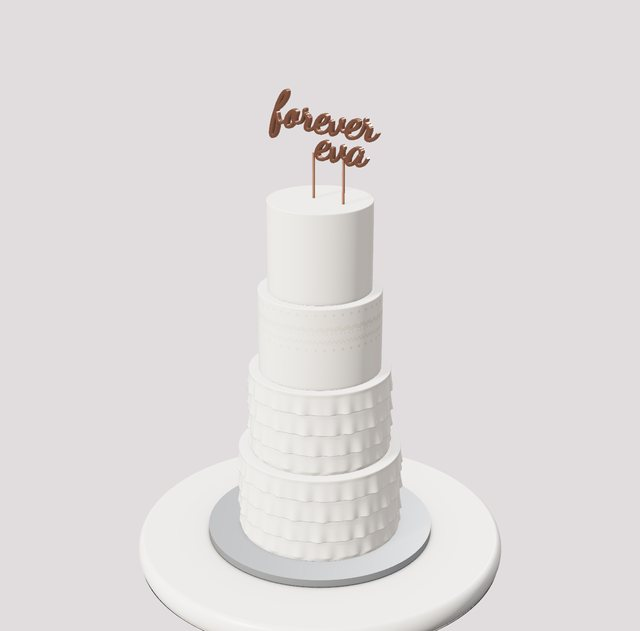
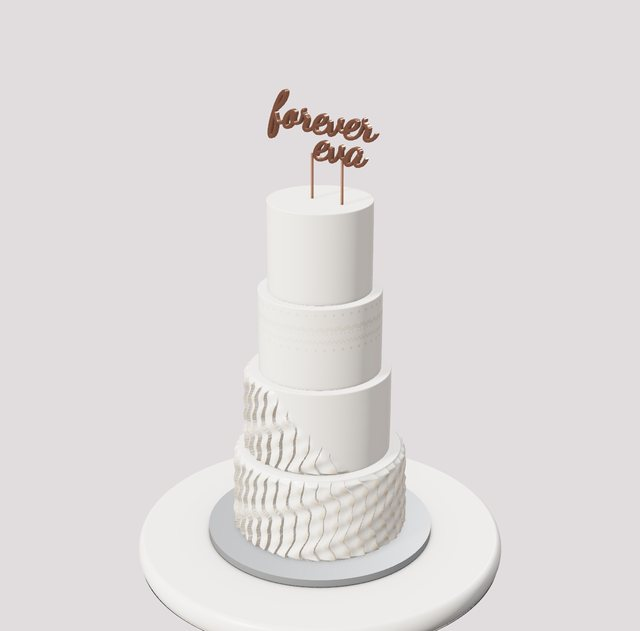
Forever Ruffles: vertical fondant ruffles in a diagonal sweep with luster edges (new Vertical Fondant Ruffles texture)
Claude-Session: https://claude.ai/code/session_016sN14hzH19WJ5zrp8o2QGp

Changed region(s): [[0.3438, 0.6022, 0.6562, 0.9033], [0.4062, 0.1506, 0.5938, 0.3312]]

diff --git a/studio.html b/studio.html
@@ -439,7 +439,7 @@ const ti=b=>'<svg viewBox="0 0 48 24" fill="none" stroke="currentColor" stroke-w
 const TEX_ICONS={rosettes:ti('<circle cx="14" cy="8" r="4"/><circle cx="24" cy="8" r="4"/><circle cx="34" cy="8" r="4"/><circle cx="19" cy="16" r="4"/><circle cx="29" cy="16" r="4"/><path d="M14 8m-1.5 0a1.5 1.5 0 1 0 1.5-1.5M24 8m-1.5 0a1.5 1.5 0 1 0 1.5-1.5M34 8m-1.5 0a1.5 1.5 0 1 0 1.5-1.5" stroke-width="1"/>'),smooth:ti('<rect x="8" y="4" width="32" height="16" rx="2"/>'),seminaked:ti('<rect x="8" y="4" width="32" height="16" rx="2"/><path d="M10 10h8M22 10h6M32 10h6M12 15h10M26 15h10" stroke-dasharray="2 2"/>'),lines:ti('<path d="M8 6h32M8 10h32M8 14h32M8 18h32"/>'),ribbed:ti('<path d="M12 4v16M17 4v16M22 4v16M27 4v16M32 4v16M37 4v16"/>'),scallop:ti('<path d="M8 8c2-3 4-3 6 0s4 3 6 0 4-3 6 0 4 3 6 0 4-3 6 0M8 15c2-3 4-3 6 0s4 3 6 0 4-3 6 0 4 3 6 0 4-3 6 0"/>'),stripes:ti('<path d="M8 6h32M8 14h32" stroke-width="3"/><path d="M8 10h32M8 18h32" stroke-width="3" opacity=".4"/>'),combed:ti('<path d="M8 7h32M8 9.5h32M8 12h32M8 14.5h32M8 17h32" stroke-width="1"/>'),knife:ti('<path d="M8 16l8-8 6 5 7-7 5 4 6-4M10 20l9-5 7 3 9-6"/>'),stucco:ti('<path d="M10 16l2-5 2 5M18 12l2-5 2 5M26 16l2-5 2 5M34 12l2-5 2 5M14 20l2-4 2 4M30 20l2-4 2 4"/>'),swirl:ti('<path d="M10 14c0-6 10-6 10 0s-6 5-6 1M26 12c0-6 10-6 10 0s-6 5-6 1"/>'),wave:ti('<path d="M3 8c4-5 7 5 11 0s7 5 11 0 7 5 11 0 7 5 9 0M3 17c4-5 7 5 11 0s7 5 11 0 7 5 11 0 7 5 9 0"/>'),zigzag:ti('<path d="M3 9l5-5 5 5 5-5 5 5 5-5 5 5 5-5 5 5M3 19l5-5 5 5 5-5 5 5 5-5 5 5 5-5 5 5"/>'),basket:ti('<path d="M4 4h14v7H4zM20 4h14v7H20zM4 13h14v7H4zM20 13h14v7H20zM36 4h8v7h-8zM36 13h8v7h-8z"/>'),diamond:ti('<path d="M12 2l10 10-10 10L2 12zM32 2l10 10-10 10-10-10z"/>'),golf:ti('<circle cx="8" cy="7" r="2"/><circle cx="18" cy="7" r="2"/><circle cx="28" cy="7" r="2"/><circle cx="38" cy="7" r="2"/><circle cx="13" cy="15" r="2"/><circle cx="23" cy="15" r="2"/><circle cx="33" cy="15" r="2"/>'),dimple:ti('<circle cx="10" cy="7" r="3"/><circle cx="24" cy="7" r="3"/><circle cx="38" cy="7" r="3"/><circle cx="17" cy="17" r="3"/><circle cx="31" cy="17" r="3"/>'),ruffle:ti('<path d="M6 2c-4 6 4 14 0 20M16 2c-4 6 4 14 0 20M26 2c-4 6 4 14 0 20M36 2c-4 6 4 14 0 20"/>'),brushed:ti('<path d="M8 2v20M15 4v18M22 2v19M29 5v17M36 2v20"/>'),swipes:ti('<path d="M8 20l4-18M17 22l4-18M26 20l4-18M35 22l4-18"/>')};TEX_ICONS.grass=ti('<path d="M6 20l1-12M10 20l-1-10M14 20l2-12M18 20l-1-9M22 20l2-12M26 20l-1-10M30 20l2-12M34 20l-1-9M38 20l2-11M42 20l-1-10"/>');TEX_ICONS.fur=ti('<path d="M5 8c1 4 3 6 4 10M11 8c1 4 3 6 4 10M17 8c1 4 3 6 4 10M23 8c1 4 3 6 4 10M29 8c1 4 3 6 4 10M35 8c1 4 3 6 4 10M41 8c1 4 2 6 3 10"/>');
 const DRIPS=['#3b2216','#6b3f24','#f4ecdf','#b8742e','#d4ae5a','#c9ccd2','#e9a6ba','#9fc0d6'];
 const PALETTES=[{name:'Blush And Ivory',frost:['#fbf7f1','#f3d6dc','#fbf7f1'],pipe:'#fbf7f1',bow:'#f29bb4'},{name:'Sage Garden',frost:['#c9d8c5','#fbf7f1','#c9d8c5'],pipe:'#fbf7f1',bow:'#9db59a'},{name:'Dusty Blue',frost:['#d9e6ee','#fbf7f1','#d9e6ee'],pipe:'#fbf7f1',bow:'#9fc0d6'},{name:'Lavender',frost:['#cbbfe0','#fbf7f1','#cbbfe0'],pipe:'#fbf7f1',bow:'#cbbfe0'},{name:'Peach',frost:['#f6dcc8','#fbf7f1','#f6dcc8'],pipe:'#fbf7f1',bow:'#e9a6ba'},{name:'Black And Gold',frost:['#2f2a2c','#fbf7f1','#2f2a2c'],pipe:'#c9a24e',bow:'#c9a24e'},{name:'Chocolate Caramel',frost:['#7a4a32','#e7c08f','#7a4a32'],pipe:'#e7c08f',bow:'#6b4a3a'},{name:'All White',frost:['#fbf7f1','#fbf7f1','#fbf7f1'],pipe:'#fbf7f1',bow:'#fbf7f1'}];
-const TEXTURES={rosettes:'Rosette Cake',smooth:'Smooth',knife:'Palette Knife',lines:'Comb Lines',ribbed:'Ribbed Comb',scallop:'Scalloped',stripes:'Two-Tone Stripes',swirl:'Rustic Swirl',stucco:'Stucco Peaks',combed:'Fine Combed',seminaked:'Semi-Naked',wave:'Wavy Comb',zigzag:'Chevron Comb',basket:'Basket Weave',diamond:'Diamond Quilt',dimple:'Pillow Dimples',golf:'Golf Ball Dimples',ruffle:'Buttercream Ruffles',frills:'Fondant Frills',brushed:'Brushed Streaks',swipes:'Spatula Swipes',grass:'Piped Grass (All Over)',fur:'Piped Fur (All Over)'};
+const TEXTURES={rosettes:'Rosette Cake',smooth:'Smooth',knife:'Palette Knife',lines:'Comb Lines',ribbed:'Ribbed Comb',scallop:'Scalloped',stripes:'Two-Tone Stripes',swirl:'Rustic Swirl',stucco:'Stucco Peaks',combed:'Fine Combed',seminaked:'Semi-Naked',wave:'Wavy Comb',zigzag:'Chevron Comb',basket:'Basket Weave',diamond:'Diamond Quilt',dimple:'Pillow Dimples',golf:'Golf Ball Dimples',ruffle:'Buttercream Ruffles',frills:'Fondant Frills',vruffles:'Vertical Fondant Ruffles',brushed:'Brushed Streaks',swipes:'Spatula Swipes',grass:'Piped Grass (All Over)',fur:'Piped Fur (All Over)'};
 const BORDERS={none:'None',shells:'Shells',rshells:'Reverse Shells',pearls:'Pearls',dpearls:'Double Pearls',kisses:'Kisses',stars:'Star Drops',dflowers:'Drop Flowers',rosettes:'Rosettes',rope:'Rope',scrolls:'C-Scrolls',zigzag:'Zigzag',ruffle:'Ruffle',leaves:'Leaves',grass:'Piped Grass'};
 const SIDES={none:'None',drapes:'Fondant Drapes',swags:'Swags',double:'Double Swags',lambeth:'Lambeth',strings:'Drop Strings',quilted:'Quilted Pearls',deco:'Art Deco Fans'};
 const TOPS={none:'None',roses:'Sugar Roses',berries:'Fresh Berries',rosettes:'Rosette Crown',horn:'Unicorn Horn'};
@@ -1124,7 +1124,7 @@ const TEX3D={
  diamond:{rows:150,segs:400,make:(r,h,q)=>{const Nd=Math.max(8,Math.round(2*PI*r/.75));return(a,yy)=>{const ui=a/(2*PI)*Nd,vi=yy/.75;return .06*(Math.abs(Math.sin(PI*(ui+vi)))*Math.abs(Math.sin(PI*(ui-vi)))-.3)}}},
  dimple:{rows:150,segs:400,make:(r,h,q)=>{const N=Math.max(8,Math.round(2*PI*r/.6));return(a,yy)=>.05*Math.cos(N*a)*Math.cos(2*PI*yy/.6)}},
  golf:{rows:190,segs:640,make:(r,h,q)=>{const sp=.42,N=Math.max(10,Math.round(2*PI*r/sp)),cu=2*PI*r/N,vh=sp*.866,fr=x=>x-Math.floor(x);return(a,yy)=>{const v=yy/vh,row=Math.floor(v),u=fr(a/(2*PI))*N+(row%2?.5:0),du=(fr(u)-.5)*cu,dv=(fr(v)-.5)*vh,d=Math.hypot(du,dv),k=Math.max(0,1-d/.16);return -.045*k*k*(3-2*k)}}},
- frills:{rows:140,segs:720,make:(r,h,q)=>{const N=Math.max(12,Math.round(r*4.2)),RH=Math.max(1,h/Math.max(2,Math.round(h/1.35))),ph=[...Array(12)].map(()=>q()*6.28);return(a,yy)=>{const k=Math.floor(yy/RH),u=yy/RH-k,p=ph[k%12],w=Math.sin(N*a+p+.6*Math.sin(3*a+p))*.6+Math.sin(N*1.7*a+p*2)*.4;return(.03+.2*Math.pow(1-u,1.6))*(.55+.45*w)-.05}}},ruffle:{rows:50,segs:480,make:(r,h,q)=>{const N=Math.max(10,Math.round(r*3.4));return(a,yy)=>.1*Math.sin(N*a+.35*Math.sin(yy*.9))}},
+ vruffles:{rows:130,segs:1100,make:(r,h,q,t)=>{const V=(t&&t.vr)||{},N=Math.max(20,Math.round(r*7.5)),c=(V.c??180)*PI/180,w0=(V.w0??180)*PI/180,w1=(V.w1??180)*PI/180,A=V.depth??.34,ph=q()*6.28;return(a,yy)=>{const u=Math.min(1,Math.max(0,yy/h)),w=w0+(w1-w0)*u,d=Math.abs(Math.atan2(Math.sin(a-c),Math.cos(a-c))),m=w>=PI?1:smooth(w,w-.2,d);if(m<=0)return 0;const s=N*a/(2*PI)+.32*Math.sin(yy*1.5+ph+a*3)+.12*Math.sin(yy*3.7+a*7),f=s-Math.floor(s),pr=Math.pow(1-f,.55);return m*(A*(1.25-.45*u)*(.15+.85*pr)+.04*Math.sin(yy*6+a*13+ph))}}},frills:{rows:140,segs:720,make:(r,h,q)=>{const N=Math.max(12,Math.round(r*4.2)),RH=Math.max(1,h/Math.max(2,Math.round(h/1.35))),ph=[...Array(12)].map(()=>q()*6.28);return(a,yy)=>{const k=Math.floor(yy/RH),u=yy/RH-k,p=ph[k%12],w=Math.sin(N*a+p+.6*Math.sin(3*a+p))*.6+Math.sin(N*1.7*a+p*2)*.4;return(.03+.2*Math.pow(1-u,1.6))*(.55+.45*w)-.05}}},ruffle:{rows:50,segs:480,make:(r,h,q)=>{const N=Math.max(10,Math.round(r*3.4));return(a,yy)=>.1*Math.sin(N*a+.35*Math.sin(yy*.9))}},
  brushed:{rows:110,segs:420,make:(r,h,q)=>{const f=fbm(36,2,1100+Math.floor(q()*500));return(a,yy)=>{const u=((a/(2*PI))%1+1)%1;return .07*(f(u,(yy/h)*.12)-.5)}}},
  swipes:{rows:110,segs:420,make:(r,h,q)=>{const N=Math.max(8,Math.round(2*PI*r/.8)),f=fbm(N,2,1300+Math.floor(q()*500));return(a,yy)=>{const ui=a/(2*PI)*N,fr=((ui%1)+1)%1,u=((a/(2*PI))%1+1)%1;return .06*(fr-.5)+.03*(f(u,(yy/h)*.3)-.5)}}}};
 const texFade=(yy,h)=>smooth(.03,.3,yy)*smooth(h-.02,h-.32,yy);
@@ -1642,9 +1642,9 @@ THEMES.unshift(
   newTier(10,3.6,{shape:'square',color:'#fbf7f1',finish:'fondant',texture:'dimple',prof:'pillow',top:'rope',pipe:'#d4ae5a',bottom:'rope',bottomColor:'#d4ae5a',stencil:{pattern:'damask',color:'#d4ae5a',size:1.8,height:1.8,y:-.8},decor:[DC('roses','band',16,{color:'#fbf7f1',size:130,y:-1.4})]}),
   newTier(7.5,3.2,{shape:'square',color:'#fbf7f1',finish:'fondant',texture:'ruffle',prof:'pillow',top:'rope',pipe:'#fbf7f1',bottom:'scrolls',bottomColor:'#d4ae5a',decor:[DC('tassel','band',4,{color:'#d4ae5a',size:180,rot:45,y:.9})]}),
   newTier(5.5,3.4,{color:'#c9ccd2',texture:'rosettes',prof:'dome',top:'none',bottom:'none',decor:[DC('roses','cluster',10,{color:'#fbf7f1',size:130})]})]}},
- {key:'sig_ruffles',name:'Forever Ruffles',tag:SIG,blurb:'Four ivory fondant tiers: two bottom tiers swept in soft ruffles, a lace band, a clean top tier and a rose gold "forever" script topper.',d:{board:'silver',topper:'none',tiers:[
-  newTier(10,5.4,{color:'#fbf8f2',finish:'fondant',texture:'frills',top:'none',bottom:'none'}),
-  newTier(8.6,5.2,{color:'#fbf8f2',finish:'fondant',texture:'frills',top:'none',bottom:'none'}),
+ {key:'sig_ruffles',name:'Forever Ruffles',tag:SIG,blurb:'Four ivory fondant tiers with a diagonal sweep of vertical fondant ruffles edged in gold luster, a lace band, a clean top tier and a rose gold "forever" script topper.',d:{board:'silver',topper:'none',tiers:[
+  newTier(10,5.4,{color:'#fbf8f2',finish:'fondant',texture:'vruffles',edgeColor:'#c8a46a',vr:{c:110,w0:180,w1:180},top:'none',bottom:'none'}),
+  newTier(8.6,5.2,{color:'#fbf8f2',finish:'fondant',texture:'vruffles',edgeColor:'#c8a46a',vr:{c:135,w0:105,w1:40},top:'none',bottom:'none'}),
   newTier(7.4,5,{color:'#fbf8f2',finish:'fondant',top:'none',bottom:'none',stencil:{pattern:'lace',color:'#e6dccd',size:2.2,height:2.6,y:1.1}}),
   newTier(6.2,5.4,{color:'#fbf8f2',finish:'fondant',top:'none',bottom:'none',decor:[DC('scripttop','cluster',1,{color:'#e2ae96',size:380,center:true,face:95,text:'forever|eva'})]})]}},
  {key:'sig_rosegold',name:'Rose Gold Jewels',tag:SIG,blurb:'Six tiers of quilted ivory, jeweled chain swags, a rose gold glitter tier and rhinestone brooch bursts with rose gold roses.',d:{board:'rosegold',topper:'none',tiers:[
@@ -1901,7 +1901,7 @@ function buildStencil(t,ctx){const ST=t.stencil;if(!ST||!ST.pattern)return;const
 const matCache=new Map();
 function mkMat(key,make){if(!matCache.has(key))matCache.set(key,make());return matCache.get(key)}
 function shineK(){return 1.6-design.scene.shine/100*1.2}
-function surfaceMat(t){const nk=t.texture==='seminaked',om=!nk&&(t.ombre||t.texture==='stripes'||(t.print&&t.print!=='none'));return mkMat('surf|'+t.color+'|'+t.finish+'|'+t.texture+(nk?'|'+Math.round(t.h*4):'')+(om?'|om':'')+(TEX3D[t.texture]?'|3d':''),()=>{const f=FINISHES[t.finish]||FINISHES.buttercream,nm=(TEX[t.texture]||TEX.smooth).clone(),rm=TEX.rough.clone();nm.repeat.set(3,1);rm.repeat.set(3,1);nm.needsUpdate=rm.needsUpdate=true;const m=new T.MeshPhysicalMaterial({color:t.color,roughnessMap:rm,normalMap:nm,normalScale:new V2(.3*f.tex*(t.texture==='smooth'?1:1.3),.3*f.tex*(t.texture==='smooth'?1:1.3)),sheen:f.sheen,sheenRoughness:.5,sheenColor:new T.Color(1,.965,.925)});if(nk){m.color.set('#ffffff');m.map=nakedTex(t.color,t.h);m.normalScale.set(.18,.18)}if(om){m.color.set('#ffffff');m.vertexColors=true}m.userData.finish=f;return warm(m,1.15)})}
+function surfaceMat(t){const nk=t.texture==='seminaked',om=!nk&&(t.ombre||t.texture==='stripes'||(t.print&&t.print!=='none')||(t.texture==='vruffles'&&t.edgeColor));return mkMat('surf|'+t.color+'|'+t.finish+'|'+t.texture+(nk?'|'+Math.round(t.h*4):'')+(om?'|om':'')+(TEX3D[t.texture]?'|3d':''),()=>{const f=FINISHES[t.finish]||FINISHES.buttercream,nm=(TEX[t.texture]||TEX.smooth).clone(),rm=TEX.rough.clone();nm.repeat.set(3,1);rm.repeat.set(3,1);nm.needsUpdate=rm.needsUpdate=true;const m=new T.MeshPhysicalMaterial({color:t.color,roughnessMap:rm,normalMap:nm,normalScale:new V2(.3*f.tex*(t.texture==='smooth'?1:1.3),.3*f.tex*(t.texture==='smooth'?1:1.3)),sheen:f.sheen,sheenRoughness:.5,sheenColor:new T.Color(1,.965,.925)});if(nk){m.color.set('#ffffff');m.map=nakedTex(t.color,t.h);m.normalScale.set(.18,.18)}if(om){m.color.set('#ffffff');m.vertexColors=true}m.userData.finish=f;return warm(m,1.15)})}
 function pipeMat(c){return mkMat('pipe|'+c,()=>{const nm=TEX.fine.clone();nm.repeat.set(2,1);nm.needsUpdate=true;const m=new T.MeshPhysicalMaterial({color:c,vertexColors:true,normalMap:nm,normalScale:new V2(.18,.18),sheen:.25,sheenRoughness:.5,sheenColor:new T.Color(1,.965,.925)});m.userData.finish={rough:.25,clear:.57,clearR:.13};return warm(m,.95)})}
 const HORNS={gold:'Gold',silver:'Silver',rosegold:'Rose Gold',rainbow:'Rainbow Swirl',pastel:'Pastel Pink',pearl:'Pearl White'};
 function hornMat(k){return k==='silver'?dmat('#c9ccd2',{r:.2,metal:1,cc:.4}):k==='rosegold'?dmat('#d9a08a',{r:.22,metal:1,cc:.4}):k==='pastel'?dmat('#f3c1cf',{r:.25,cc:.9,ccr:.05,sh:.4}):k==='pearl'?dmat('#fbf7f1',{r:.18,cc:1,ccr:.04,sh:.5}):k==='rainbow'?dmat('#ffffff',{r:.22,cc:.9,ccr:.05,sh:.3}):goldMat}
@@ -1954,7 +1954,7 @@ function buildCake(){
  makeTable(D);
  let y=bh;
  D.tiers.forEach((t,i)=>{curTier=i;curPart='piping';const r=t.d/2,h=t.h,q=rng(1000+i*97),J=a=>(q()*2-1)*a*ch,shade=()=>1+J(.035),next=D.tiers[i+1],nr=next?next.d/2:0;
-  const PF=t.prof&&PROFILES[t.prof]?PROFILES[t.prof]:null,y0=y,W0=tierWobble(h,ch,7+i*13),T3=t.texture!=='seminaked'?TEX3D[t.texture]:null,Dsp=T3?T3.make(r,h,q):null,SHf=shapeK(t.shape),W=Dsp?(a,yy)=>SHf(a)*W0(a,yy)+Dsp(a,yy)*texFade(yy,h)/r:(a,yy)=>SHf(a)*W0(a,yy),R_at=(a,yy)=>r*W(a,yy-y0)*(PF?PF((yy-y0)/h):1),off=(a,yy)=>R_at(a,yy)-r;tierShapes[i]={R_at,y0,h,r};const PR=t.print&&t.print!=='none'&&t.texture!=='seminaked'?printFn(t.print,r,h,1000+i*31):null;const tg=tierGeo(r,h,t.edge,W,Math.max(PR?110:0,T3?.rows||(t.shape&&t.shape!=='round'?40:30)),Math.max(PR?480:0,T3?.segs||(t.shape&&t.shape!=='round'?320:200)),SHf,PF);if((t.ombre||t.texture==='stripes'||PR)&&t.texture!=='seminaked'){const c1=new T.Color(t.color),c2=new T.Color(t.ombre?(t.ombreColor||'#fbf7f1'):t.color),c3=new T.Color(t.stripeColor||'#e9a6ba'),c4=new T.Color(t.printColor||'#1d1b1f'),cc=new T.Color();tintTo(tg,(x,yy,z)=>{cc.copy(c1).lerp(c2,smooth(h*.08,h*.95,yy));if(t.texture==='stripes'&&Dsp&&Math.hypot(x,z)>r*.9){const d=Dsp(Math.atan2(z,x),yy)*texFade(yy,h);cc.lerp(c3,smooth(-.012,-.038,d))}if(PR&&Math.hypot(x,z)>r*.8&&yy<h-.05){const k=PR(Math.atan2(z,x),yy);if(k>0)cc.lerp(c4,k)}return[cc.r,cc.g,cc.b]})}const m=new T.Mesh(tg,surfaceMat(t));m.position.y=y;m.castShadow=m.receiveShadow=true;m.userData={tier:i,part:'surface'};cake.add(m);tierMeshes.push(m);
+  const PF=t.prof&&PROFILES[t.prof]?PROFILES[t.prof]:null,y0=y,W0=tierWobble(h,ch,7+i*13),T3=t.texture!=='seminaked'?TEX3D[t.texture]:null,Dsp=T3?T3.make(r,h,q,t):null,SHf=shapeK(t.shape),W=Dsp?(a,yy)=>SHf(a)*W0(a,yy)+Dsp(a,yy)*texFade(yy,h)/r:(a,yy)=>SHf(a)*W0(a,yy),R_at=(a,yy)=>r*W(a,yy-y0)*(PF?PF((yy-y0)/h):1),off=(a,yy)=>R_at(a,yy)-r;tierShapes[i]={R_at,y0,h,r};const PR=t.print&&t.print!=='none'&&t.texture!=='seminaked'?printFn(t.print,r,h,1000+i*31):null;const tg=tierGeo(r,h,t.edge,W,Math.max(PR?110:0,T3?.rows||(t.shape&&t.shape!=='round'?40:30)),Math.max(PR?480:0,T3?.segs||(t.shape&&t.shape!=='round'?320:200)),SHf,PF);if((t.ombre||t.texture==='stripes'||PR||(t.texture==='vruffles'&&t.edgeColor))&&t.texture!=='seminaked'){const c1=new T.Color(t.color),c2=new T.Color(t.ombre?(t.ombreColor||'#fbf7f1'):t.color),c3=new T.Color(t.stripeColor||'#e9a6ba'),c4=new T.Color(t.printColor||'#1d1b1f'),c5=new T.Color(t.edgeColor||'#d4ae5a'),cc=new T.Color();tintTo(tg,(x,yy,z)=>{cc.copy(c1).lerp(c2,smooth(h*.08,h*.95,yy));if(t.texture==='stripes'&&Dsp&&Math.hypot(x,z)>r*.9){const d=Dsp(Math.atan2(z,x),yy)*texFade(yy,h);cc.lerp(c3,smooth(-.012,-.038,d))}if(t.texture==='vruffles'&&t.edgeColor&&Dsp&&Math.hypot(x,z)>r*.9){const d=Dsp(Math.atan2(z,x),yy)*texFade(yy,h),A=(t.vr&&t.vr.depth)||.34;{const Am=A*(1.25-.45*Math.min(1,Math.max(0,yy/h)));cc.lerp(c5,smooth(Am*.8,Am*.98,d)*.45)}}if(PR&&Math.hypot(x,z)>r*.8&&yy<h-.05){const k=PR(Math.atan2(z,x),yy);if(k>0)cc.lerp(c4,k)}return[cc.r,cc.g,cc.b]})}const m=new T.Mesh(tg,surfaceMat(t));m.position.y=y;m.castShadow=m.receiveShadow=true;m.userData={tier:i,part:'surface'};cake.add(m);tierMeshes.push(m);
   const col=k=>t[k]||t.pipe,pm=pipeMat(t.pipe),am=pipeMat(t.accent),pearlM=METALS[t.pearlColor]?pearlColorMat(t.pearlColor):pipeMat(t.pearlColor||t.pipe),topM=pipeMat(col('topColor')),botM=pipeMat(col('bottomColor')),sideM=pipeMat(col('sideColor')),dropM=pipeMat(col('dropColor'));
   const pipeScale=Math.max(.75,Math.min(1.25,t.d/9));
   const AR=t.pipeArc&&t.pipeArc.span<360?t.pipeArc:null,inArc=a=>{if(!AR)return true;let d=((a-PI/2-(AR.center||0)*PI/180)%(2*PI)+3*PI)%(2*PI)-PI;return Math.abs(d)<=AR.span*PI/360};

diff --git a/tools/signature-decor.js b/tools/signature-decor.js
@@ -310,9 +310,9 @@ THEMES.unshift(
   newTier(10,3.6,{shape:'square',color:'#fbf7f1',finish:'fondant',texture:'dimple',prof:'pillow',top:'rope',pipe:'#d4ae5a',bottom:'rope',bottomColor:'#d4ae5a',stencil:{pattern:'damask',color:'#d4ae5a',size:1.8,height:1.8,y:-.8},decor:[DC('roses','band',16,{color:'#fbf7f1',size:130,y:-1.4})]}),
   newTier(7.5,3.2,{shape:'square',color:'#fbf7f1',finish:'fondant',texture:'ruffle',prof:'pillow',top:'rope',pipe:'#fbf7f1',bottom:'scrolls',bottomColor:'#d4ae5a',decor:[DC('tassel','band',4,{color:'#d4ae5a',size:180,rot:45,y:.9})]}),
   newTier(5.5,3.4,{color:'#c9ccd2',texture:'rosettes',prof:'dome',top:'none',bottom:'none',decor:[DC('roses','cluster',10,{color:'#fbf7f1',size:130})]})]}},
- {key:'sig_ruffles',name:'Forever Ruffles',tag:SIG,blurb:'Four ivory fondant tiers: two bottom tiers swept in soft ruffles, a lace band, a clean top tier and a rose gold "forever" script topper.',d:{board:'silver',topper:'none',tiers:[
-  newTier(10,5.4,{color:'#fbf8f2',finish:'fondant',texture:'frills',top:'none',bottom:'none'}),
-  newTier(8.6,5.2,{color:'#fbf8f2',finish:'fondant',texture:'frills',top:'none',bottom:'none'}),
+ {key:'sig_ruffles',name:'Forever Ruffles',tag:SIG,blurb:'Four ivory fondant tiers with a diagonal sweep of vertical fondant ruffles edged in gold luster, a lace band, a clean top tier and a rose gold "forever" script topper.',d:{board:'silver',topper:'none',tiers:[
+  newTier(10,5.4,{color:'#fbf8f2',finish:'fondant',texture:'vruffles',edgeColor:'#c8a46a',vr:{c:110,w0:180,w1:180},top:'none',bottom:'none'}),
+  newTier(8.6,5.2,{color:'#fbf8f2',finish:'fondant',texture:'vruffles',edgeColor:'#c8a46a',vr:{c:135,w0:105,w1:40},top:'none',bottom:'none'}),
   newTier(7.4,5,{color:'#fbf8f2',finish:'fondant',top:'none',bottom:'none',stencil:{pattern:'lace',color:'#e6dccd',size:2.2,height:2.6,y:1.1}}),
   newTier(6.2,5.4,{color:'#fbf8f2',finish:'fondant',top:'none',bottom:'none',decor:[DC('scripttop','cluster',1,{color:'#e2ae96',size:380,center:true,face:95,text:'forever|eva'})]})]}},
  {key:'sig_rosegold',name:'Rose Gold Jewels',tag:SIG,blurb:'Six tiers of quilted ivory, jeweled chain swags, a rose gold glitter tier and rhinestone brooch bursts with rose gold roses.',d:{board:'rosegold',topper:'none',tiers:[

diff --git a/tools/sig-themes.js b/tools/sig-themes.js
@@ -27,9 +27,9 @@ THEMES.unshift(
   newTier(10,3.6,{shape:'square',color:'#fbf7f1',finish:'fondant',texture:'dimple',prof:'pillow',top:'rope',pipe:'#d4ae5a',bottom:'rope',bottomColor:'#d4ae5a',stencil:{pattern:'damask',color:'#d4ae5a',size:1.8,height:1.8,y:-.8},decor:[DC('roses','band',16,{color:'#fbf7f1',size:130,y:-1.4})]}),
   newTier(7.5,3.2,{shape:'square',color:'#fbf7f1',finish:'fondant',texture:'ruffle',prof:'pillow',top:'rope',pipe:'#fbf7f1',bottom:'scrolls',bottomColor:'#d4ae5a',decor:[DC('tassel','band',4,{color:'#d4ae5a',size:180,rot:45,y:.9})]}),
   newTier(5.5,3.4,{color:'#c9ccd2',texture:'rosettes',prof:'dome',top:'none',bottom:'none',decor:[DC('roses','cluster',10,{color:'#fbf7f1',size:130})]})]}},
- {key:'sig_ruffles',name:'Forever Ruffles',tag:SIG,blurb:'Four ivory fondant tiers: two bottom tiers swept in soft ruffles, a lace band, a clean top tier and a rose gold "forever" script topper.',d:{board:'silver',topper:'none',tiers:[
-  newTier(10,5.4,{color:'#fbf8f2',finish:'fondant',texture:'frills',top:'none',bottom:'none'}),
-  newTier(8.6,5.2,{color:'#fbf8f2',finish:'fondant',texture:'frills',top:'none',bottom:'none'}),
+ {key:'sig_ruffles',name:'Forever Ruffles',tag:SIG,blurb:'Four ivory fondant tiers with a diagonal sweep of vertical fondant ruffles edged in gold luster, a lace band, a clean top tier and a rose gold "forever" script topper.',d:{board:'silver',topper:'none',tiers:[
+  newTier(10,5.4,{color:'#fbf8f2',finish:'fondant',texture:'vruffles',edgeColor:'#c8a46a',vr:{c:110,w0:180,w1:180},top:'none',bottom:'none'}),
+  newTier(8.6,5.2,{color:'#fbf8f2',finish:'fondant',texture:'vruffles',edgeColor:'#c8a46a',vr:{c:135,w0:105,w1:40},top:'none',bottom:'none'}),
   newTier(7.4,5,{color:'#fbf8f2',finish:'fondant',top:'none',bottom:'none',stencil:{pattern:'lace',color:'#e6dccd',size:2.2,height:2.6,y:1.1}}),
   newTier(6.2,5.4,{color:'#fbf8f2',finish:'fondant',top:'none',bottom:'none',decor:[DC('scripttop','cluster',1,{color:'#e2ae96',size:380,center:true,face:95,text:'forever|eva'})]})]}},
  {key:'sig_rosegold',name:'Rose Gold Jewels',tag:SIG,blurb:'Six tiers of quilted ivory, jeweled chain swags, a rose gold glitter tier and rhinestone brooch bursts with rose gold roses.',d:{board:'rosegold',topper:'none',tiers:[
